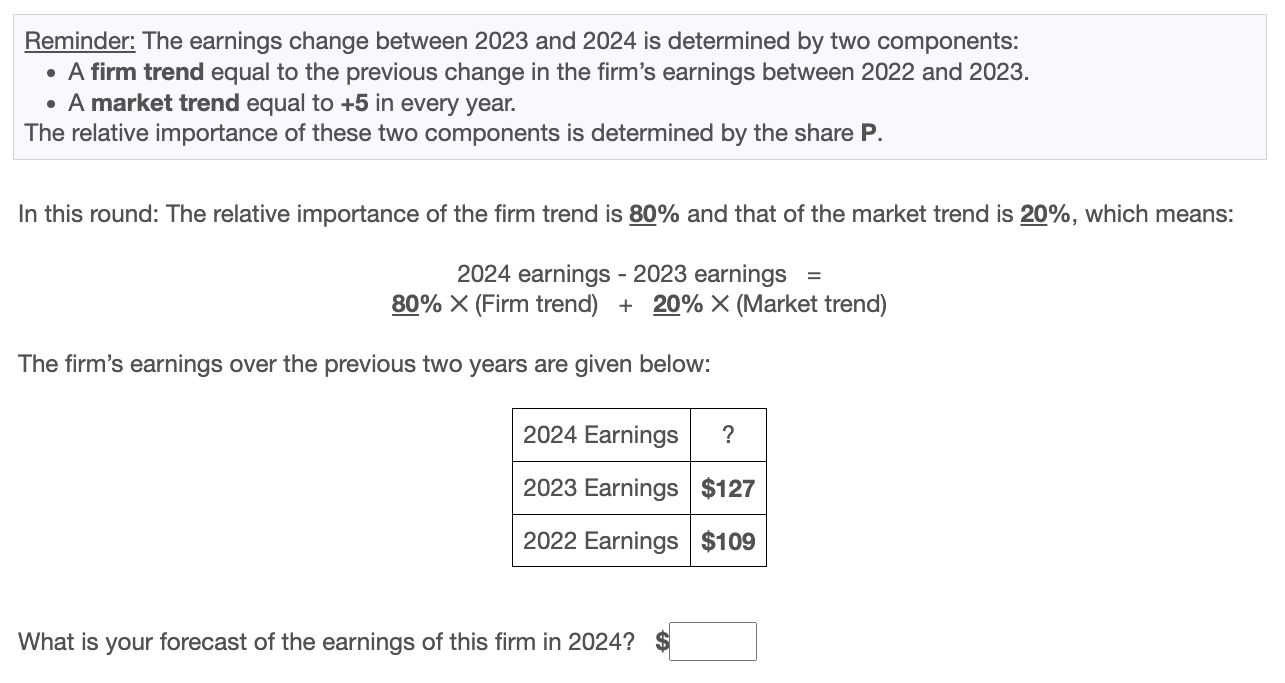
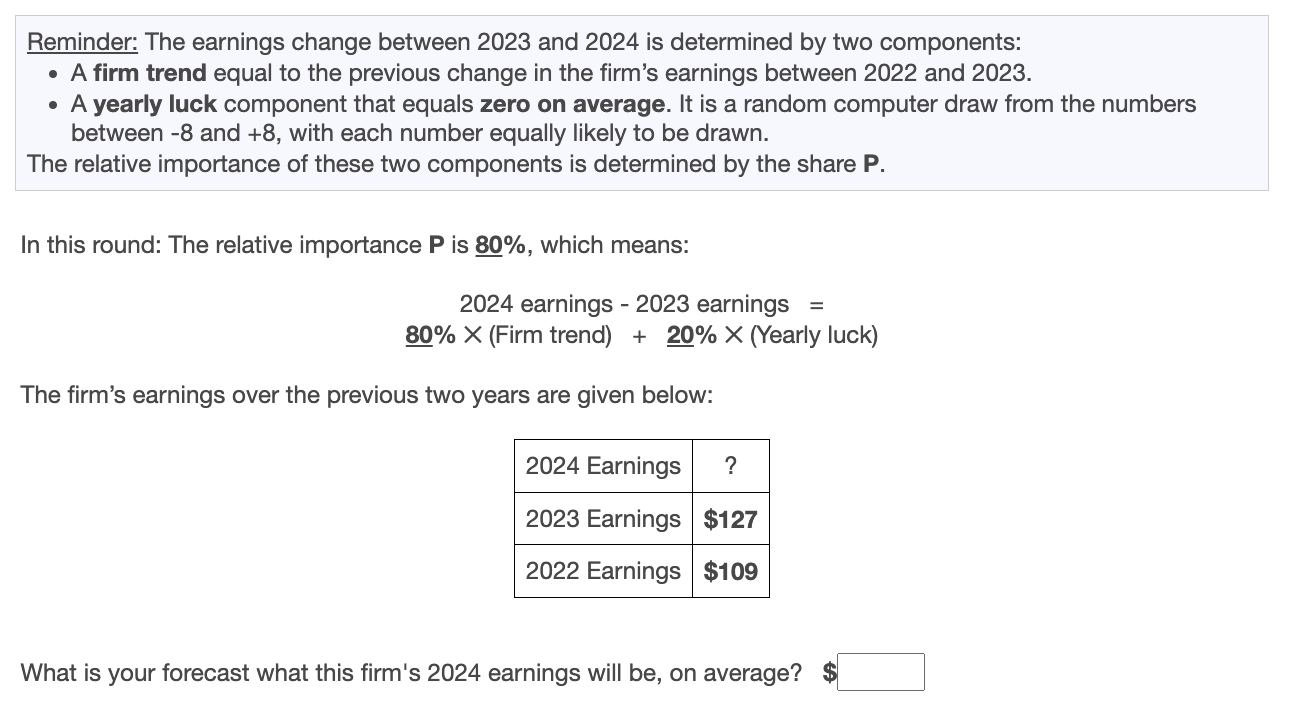
Updated to FOT_V4

diff --git a/Instructions/html/instr/fot_v3.html b/Instructions/html/instr/fot_v3.html
@@ -9,17 +9,14 @@
     In this  study, <b>your task is to forecast the end-of-year earnings of a fictional firm</b> for the year 2024, based on the firm’s earnings over the previous two years.
     <ul>
     <li>
-        The 2024 earnings of the firm depend on both a trend and year-specific luck. Specifically, the change in the firm’s earnings from 2023 to 2024 is determined by two components:
+        The 2024 earnings of the firm are predictable based on two components. 
+        Specifically, the change in the firm’s earnings from 2023 to 2024 is determined by two components:
         <ul>
             <li>
                 A <b>firm trend</b> equal to the previous change in the firm’s earnings from 2022 to 2023.
             </li>
             <li>
-                A <b>yearly luck</b> component that is <b>zero on average</b>. Specifically, the yearly luck component will be a random draw from the numbers 
-                <center>
-                    (-8, -7, -6, -5, -4, -3, -2, -1, 0, 1, 2, 3, 4, 5, 6, 7, 8),
-                </center>
-                where each number is <b>equally likely to be drawn,</b> such that the luck component equals zero on average.
+                A <b>market trend</b> equal to <b>+5</b> in every year.
             </li>
         </ul>
     </li>
@@ -29,12 +26,12 @@
             <div class="formula">
                 2024 earnings – 2023 earnings  = 
                     <br>
-                    <b>P</b>% &#x2715; (Firm trend) +  (1 – <b>P</b>)% &#x2715; (Yearly luck).
+                    <b>P</b>% &#x2715; (Firm trend) +  (100 – <b>P</b>)% &#x2715; (Market trend).
             </div>
         </center>
     </li>
     <li>
-        In each round, you will be given a different firm to forecast. You will be told the earnings of that firm over the last two years, as well as the relative importance of each component, P. Your task is to <b>forecast what the firm's 2024 earnings will be, <u>on average</u>.</b>
+        In each round, you will be given a different firm to forecast. You will be told the earnings of that firm over the last two years, as well as the relative importance of each component, P. Your task is to <b>forecast the earnings of the firm in 2024.</b>
     </li>
     <li>
         In total, you will complete 11 rounds of this task. Across these rounds, the relative importance P will vary. These rounds are completely independent from one another. If one of the rounds of this task is selected to determine your bonus, only your decision in this one round will determine your bonus.
@@ -49,7 +46,7 @@
 </h2>
 <div style="padding-left: 30px;">
     <br>
-    Your decisions may affect your bonus payment. For each round, there will be a correct forecast of the average earnings of the firm. 
+    Your decisions may affect your bonus payment. For each round, there will be a correct forecast of the earnings of the firm. 
     If a decision in this part is selected for payment, you will receive $10 if your answer is within +/- $1 of the correct forecast, and nothing otherwise. 
 </div>
 <div style="width: 100%; text-align: center; margin-top: 10px" class="instr_button_div">
@@ -70,10 +67,10 @@
     <br>
     <ul>
         <li>
-            In this example, the relative importance of the firm trend 80% and that of early luck 20%, and the firm’s earnings over the last two years (2022 and 2023) are $109 and $127, respectively. 
+            In this example, the relative importance level is 80%, and the firm’s earnings over the last two years (2022 and 2023) are $109 and $127, respectively. 
         </li>
         <li>
-            You would give your forecast of the average 2024 earnings of this firm, based on the information provided.
+            You would give your forecast of the 2024 earnings of this firm, based on the information provided.
         </li>
     </ul>
  
@@ -94,7 +91,7 @@
         You will forecast the 2024 earnings of the firm. 
     </li>
        <li>
-        We will ask you <b>how certain</b> you are about your forecast. Specifically, we are interested in how likely you think it is (in percentage terms) that your forecast is actually the correct forecast of the firm's average earnings.
+        We will ask you <b>how certain</b> you are about your forecast. Specifically, we are interested in how likely you think it is (in percentage terms) that your forecast is actually the correct forecast.
     </li>
    </ul>
 </div>
